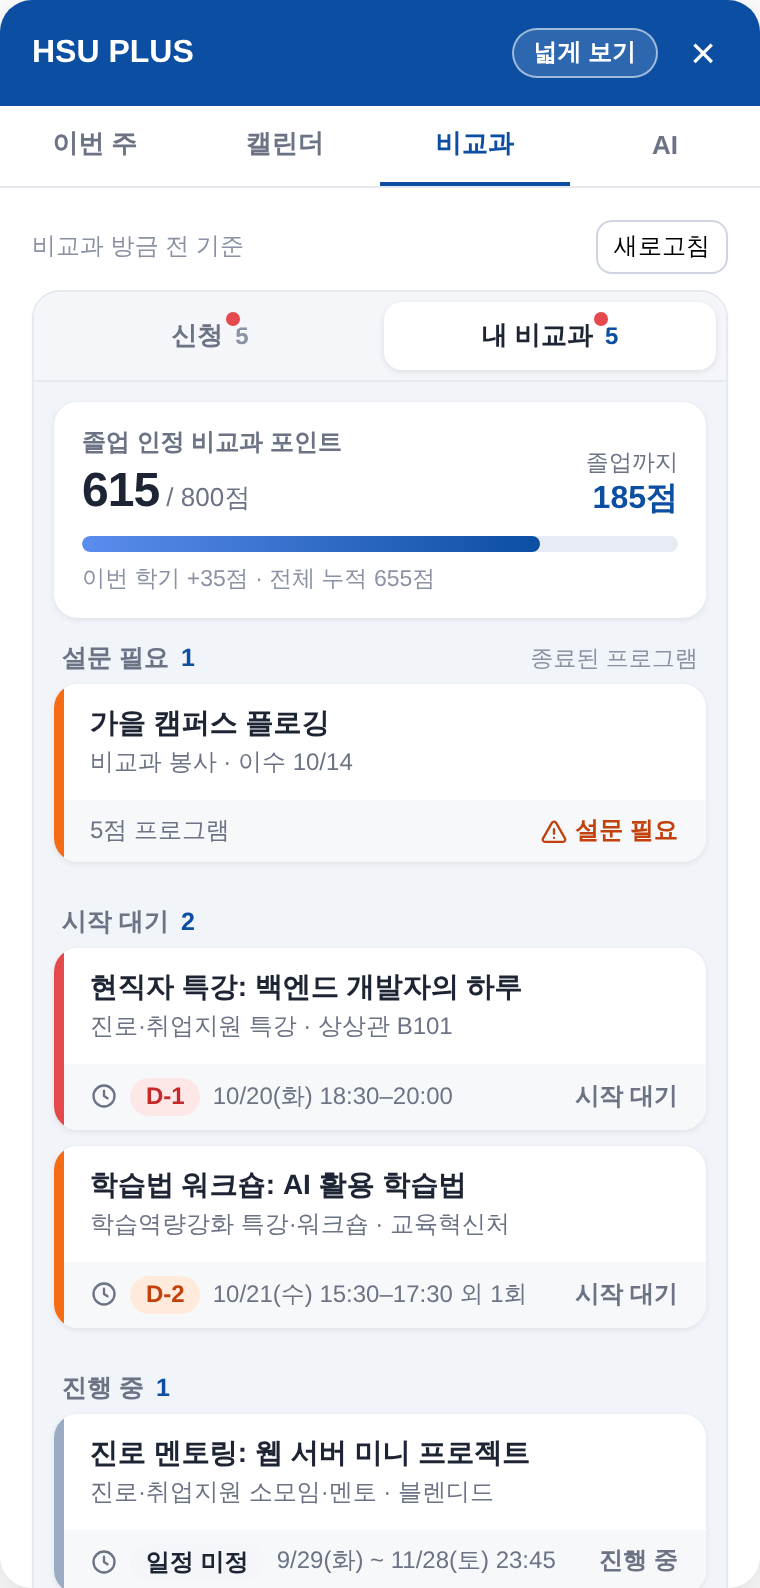
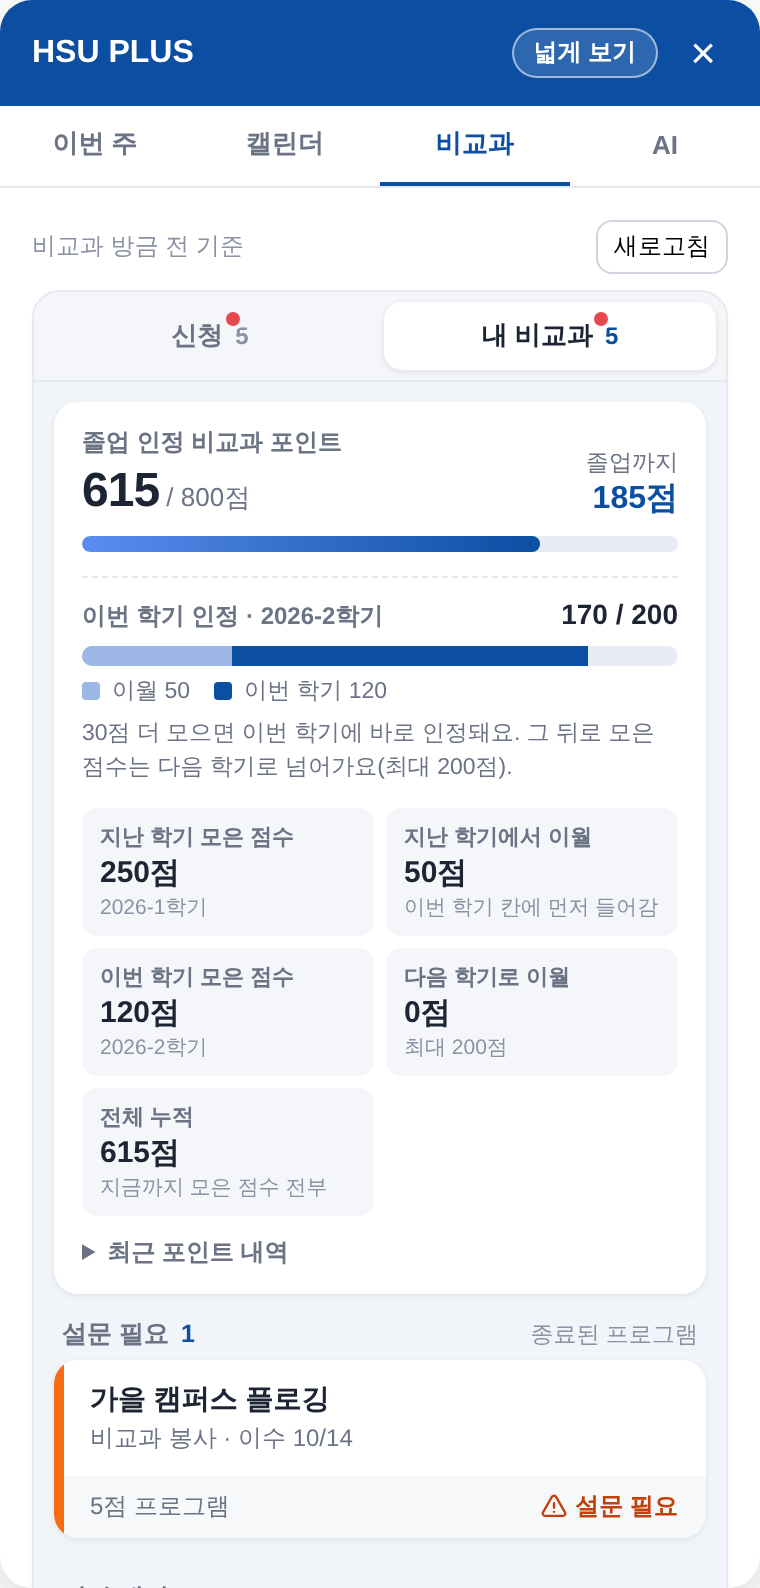
내 비교과 포인트: 학기 200점 칸·이월·소멸, 800점 이상 따로
- 포인트 내역(학교 포인트 화면 아래 목록)을 읽어 학기별로 실제 모은 점수 계산
- core/points.js: 학기 구분, 이번 학기 인정(이월 먼저, 최대 200), 다음 학기 이월(최대 200)·소멸 예상
- 카드: 졸업 인정 N/800 + 이번 학기 200점 칸(이월 | 이번 학기) + 지난/이번 학기 모은 점수·이월·누적 + 최근 내역
- 800점 이상: 게이지 없는 "내 비교과 점수" 카드 + 이번 학기 모은 점수(한도 무관)와 내역
- test/points.test.mjs 13개, README 비교과 그림 갱신

diff --git a/content/main.js b/content/main.js
@@ -1353,7 +1353,8 @@
     import(chrome.runtime.getURL("core/ai.js")),
     import(chrome.runtime.getURL("core/classify.js")),
     import(chrome.runtime.getURL("core/calendar.js")),
-  ]).then(([cache, eclass, hsportal, ai, classify, calendar]) => ({ cache, eclass, hsportal, ai, classify, calendar }));
+    import(chrome.runtime.getURL("core/points.js")),
+  ]).then(([cache, eclass, hsportal, ai, classify, calendar, points]) => ({ cache, eclass, hsportal, ai, classify, calendar, points }));
 
   // 다른 학교 사이트 페이지 글은 백그라운드가 받아 준다
   async function getText(url) {
@@ -1524,7 +1525,6 @@
   //              맨 아래 온라인(LMS에서 기간 안에 듣는 형식)은 기간만
   // 일정 종류(adapters/hsportal.js scheduleKind): exact(며칠 몇 시) / online / open(기간만, 세부 일정 따로)
   //  → exact만 날짜·시각과 D-day를 크게 보여주고 캘린더에 올린다
-  const GRAD_POINTS = 800; // 졸업 요건 비교과 포인트 (사용자 확인, 학과·학번마다 다를 수 있음)
   const PKINDS = [
     { id: "apply", label: "신청" },
     { id: "mine", label: "내 비교과" },
@@ -1595,23 +1595,82 @@
     ]);
   }
 
-  // 졸업 인정 포인트 / 800
+  // ---------- 비교과 포인트 (10/19 사용자: 학기 200점 한도, 이월 200점, 800점 넘으면 따로) ----------
+  // 계산은 core/points.js. 학교 화면 6칸 + 포인트 내역(학기별로 실제 모은 점수)
+  const fmt = (n) => Number(n || 0).toLocaleString("ko-KR");
+  function pointHistory(rows, title) {
+    if (!rows.length) return null;
+    return el("details", { class: "pt-hist" }, [
+      el("summary", { text: title }),
+      el(
+        "div",
+        { class: "pt-hist-list" },
+        rows.map((r) => el("div", { class: "pt-hrow" }, [el("span", { class: "d", text: r.date.slice(5).replace("-", "/") }), el("span", { class: "t", text: r.title }), el("b", { text: `+${r.change}` })]))
+      ),
+    ]);
+  }
   function pointCard(pt) {
-    const have = pt.graduation ?? pt.total ?? 0;
-    const left = Math.max(0, GRAD_POINTS - have);
-    const done = left === 0;
-    const bar = el("div", { class: "pt-bar" }, [el("div", { class: done ? "pt-fill done" : "pt-fill" })]);
-    bar.firstChild.style.width = `${Math.min(100, (have / GRAD_POINTS) * 100)}%`;
+    if (!PT) return el("div", { class: "pt-card" }, [el("p", { class: "placeholder", text: "포인트를 계산하는 중…" })]);
+    const S = PT.pointSummary(pt);
+    if (S.done) return eliteCard(S, pt);
+    const have = S.graduation;
+    const bar = el("div", { class: "pt-bar" }, [el("div", { class: "pt-fill" })]);
+    bar.firstChild.style.width = `${Math.min(100, (have / PT.GRAD_POINTS) * 100)}%`;
+
+    // 이번 학기 200점 칸: 이월(연한 남색) + 이번 학기 모은 점수(남색)
+    const semBar = el("div", { class: "pt-sembar", title: `한 학기 인정 한도 ${PT.SEM_CAP}점` }, [el("div", { class: "seg carry" }), el("div", { class: "seg earned" })]);
+    semBar.children[0].style.width = `${(S.fromCarry / PT.SEM_CAP) * 100}%`;
+    semBar.children[1].style.width = `${(S.fromEarned / PT.SEM_CAP) * 100}%`;
+    const note =
+      S.room > 0
+        ? `${S.room}점 더 모으면 이번 학기에 바로 인정돼요. 그 뒤로 모은 점수는 다음 학기로 넘어가요(최대 ${PT.CARRY_CAP}점).`
+        : S.lost > 0
+          ? `이번 학기 칸이 다 찼고, 다음 학기 이월도 ${PT.CARRY_CAP}점이 다 찼어요. 넘친 ${S.lost}점은 사라져요.`
+          : `이번 학기 칸은 다 찼어요. 지금부터 모으는 점수는 다음 학기로 넘어가요 (${S.carryRoom}점까지).`;
+    const stat = (label, value, sub, cls = "") => el("div", { class: `pt-stat ${cls}` }, [el("span", { class: "l", text: label }), el("b", { text: value }), sub ? el("span", { class: "s", text: sub }) : null]);
+    const stats = [
+      stat("지난 학기 모은 점수", S.prevEarned == null ? "-" : `${fmt(S.prevEarned)}점`, S.prev.label),
+      stat("지난 학기에서 이월", `${fmt(S.carryIn)}점`, "이번 학기 칸에 먼저 들어감"),
+      stat("이번 학기 모은 점수", `${fmt(S.earned)}점`, S.sem.label),
+      stat("다음 학기로 이월", `${fmt(S.carryOut)}점`, S.carryOut ? "학기가 끝나면 넘어가요 (예상)" : `최대 ${PT.CARRY_CAP}점`),
+    ];
+    if (S.lost || S.schoolExpired) stats.push(stat("소멸", `${fmt(Math.max(S.lost, S.schoolExpired || 0))}점`, "이월 한도를 넘은 점수", "warn"));
+    if (S.total != null) stats.push(stat("전체 누적", `${fmt(S.total)}점`, "지금까지 모은 점수 전부"));
     return el("div", { class: "pt-card" }, [
       el("div", { class: "pt-top" }, [
         el("div", {}, [
           el("div", { class: "pt-label", text: "졸업 인정 비교과 포인트" }),
-          el("div", { class: "pt-num" }, [el("b", { text: String(have) }), el("span", { text: ` / ${GRAD_POINTS}점` })]),
+          el("div", { class: "pt-num" }, [el("b", { text: fmt(have) }), el("span", { text: ` / ${PT.GRAD_POINTS}점` })]),
         ]),
-        el("div", { class: done ? "pt-left done" : "pt-left" }, done ? [el("b", { text: "졸업 요건 달성" })] : [el("span", { text: "졸업까지" }), el("b", { text: `${left}점` })]),
+        el("div", { class: "pt-left" }, [el("span", { text: "졸업까지" }), el("b", { text: `${fmt(S.toGraduate)}점` })]),
       ]),
       bar,
-      el("div", { class: "pt-foot", text: [pt.semester != null ? `이번 학기 +${pt.semester}점` : "", pt.total != null ? `전체 누적 ${pt.total}점` : ""].filter(Boolean).join(" · ") }),
+      el("div", { class: "pt-sem" }, [
+        el("div", { class: "pt-sem-head" }, [el("span", { text: `이번 학기 인정 · ${S.sem.label}` }), el("b", { text: `${S.recognized} / ${PT.SEM_CAP}` })]),
+        semBar,
+        el("div", { class: "pt-legend" }, [
+          el("span", { class: "k carry" }), el("span", { text: `이월 ${S.fromCarry}` }),
+          el("span", { class: "k earned" }), el("span", { text: `이번 학기 ${S.fromEarned}` }),
+          S.overflow ? el("span", { class: "over", text: `+ 넘친 ${S.overflow}` }) : null,
+        ]),
+        el("p", { class: "pt-note", text: note }),
+      ]),
+      el("div", { class: "pt-stats" }, stats),
+      pointHistory(S.recent, "최근 포인트 내역"),
+    ]);
+  }
+  // 졸업 요건(800점)을 이미 채운 사람: 게이지 없이 점수와 이번 학기 모은 점수만 (장학금 경쟁 등)
+  function eliteCard(S, pt) {
+    const thisSem = (pt.history || []).filter((r) => r.date >= S.sem.from && r.date < S.sem.to).sort((a, b) => b.date.localeCompare(a.date));
+    return el("div", { class: "pt-elite" }, [
+      el("div", { class: "pe-top" }, [el("span", { class: "pe-label", text: "내 비교과 점수" }), el("span", { class: "pe-badge", text: "✓ 졸업 요건 달성" })]),
+      el("div", { class: "pe-num" }, [el("b", { text: fmt(S.total ?? S.graduation) }), el("span", { text: "점" })]),
+      el("div", { class: "pe-sem" }, [
+        el("span", { class: "l", text: `${S.sem.label}에 모은 점수` }),
+        el("b", { text: `+${fmt(S.earned)}점` }),
+      ]),
+      el("p", { class: "pe-note", text: `학기 인정 한도(${PT.SEM_CAP}점)와 상관없이 이번 학기에 실제로 모은 점수예요.` }),
+      pointHistory(thisSem.slice(0, 20), `이번 학기 내역 ${thisSem.length}건${thisSem.length > 20 ? " (최근 20건)" : ""}`),
     ]);
   }
 
@@ -1710,9 +1769,11 @@
   const classified = new Map(); // 분류 결과 (상세가 바뀌면 비움)
   let C = null; // core/classify.js
   let CAL = null; // core/calendar.js
+  let PT = null; // core/points.js
   mods.then((m) => {
     C = m.classify;
     CAL = m.calendar;
+    PT = m.points;
     rerender();
   });
   const detailsReady = mods

diff --git a/content/panel.css b/content/panel.css
@@ -564,3 +564,55 @@ button.tt-day.today { color: var(--ot-primary); }
 .cal-foot .weekend-toggle { flex: none; margin-top: 0; }
 .frame.cal .ev-form { margin-bottom: 12px; }
 .frame.cal .cal-tools { margin-top: 12px; }
+
+/* ---------- 비교과 포인트: 학기 200점 칸 · 이월 · 숫자 (10/19) ---------- */
+.pt-sem { margin-top: 12px; padding-top: 10px; border-top: 1px dashed var(--ot-line); }
+.pt-sem-head { display: flex; justify-content: space-between; align-items: baseline; font-size: 12px; color: var(--ot-sub); font-weight: 600; }
+.pt-sem-head b { font-size: 14px; color: var(--ot-text); font-variant-numeric: tabular-nums; }
+.pt-sembar { display: flex; margin-top: 6px; height: 10px; border-radius: 999px; background: #e7ecf4; overflow: hidden; }
+.pt-sembar .seg { height: 100%; }
+.pt-sembar .carry { background: #9db8e6; }
+.pt-sembar .earned { background: var(--ot-primary); }
+.pt-legend { display: flex; flex-wrap: wrap; align-items: center; gap: 4px 6px; margin-top: 5px; font-size: 11.5px; color: var(--ot-sub); font-variant-numeric: tabular-nums; }
+.pt-legend .k { width: 9px; height: 9px; border-radius: 2px; }
+.pt-legend .k.carry { background: #9db8e6; }
+.pt-legend .k.earned { background: var(--ot-primary); margin-left: 6px; }
+.pt-legend .over { margin-left: auto; color: var(--ot-primary); font-weight: 700; }
+.pt-note { margin: 6px 0 0; font-size: 11.5px; color: var(--ot-sub); line-height: 1.5; }
+.pt-stats { display: grid; grid-template-columns: repeat(2, minmax(0, 1fr)); gap: 6px; margin-top: 10px; }
+.panel.wide .pt-stats { grid-template-columns: repeat(3, minmax(0, 1fr)); }
+.pt-stat { display: flex; flex-direction: column; gap: 1px; padding: 7px 9px; border-radius: 8px; background: var(--ot-soft); min-width: 0; }
+.pt-stat .l { font-size: 11px; color: var(--ot-sub); font-weight: 600; }
+.pt-stat b { font-size: 15px; font-variant-numeric: tabular-nums; }
+.pt-stat .s { font-size: 10.5px; color: var(--ot-muted); white-space: nowrap; overflow: hidden; text-overflow: ellipsis; }
+.pt-stat.warn { background: #fdecec; }
+.pt-stat.warn b { color: #b42318; }
+.pt-hist { margin-top: 10px; font-size: 12px; }
+.pt-hist summary { cursor: pointer; color: var(--ot-sub); font-weight: 600; }
+.pt-hist-list { display: flex; flex-direction: column; margin-top: 6px; }
+.pt-hrow { display: flex; gap: 8px; align-items: baseline; padding: 4px 0; border-top: 1px solid #f0f2f5; font-variant-numeric: tabular-nums; }
+.pt-hrow .d { flex: none; width: 38px; color: var(--ot-muted); }
+.pt-hrow .t { flex: 1; min-width: 0; overflow: hidden; text-overflow: ellipsis; white-space: nowrap; }
+.pt-hrow b { flex: none; color: var(--ot-primary); }
+
+/* 졸업 요건 달성 (800점 이상): 게이지 없이 점수를 크게 */
+.pt-elite {
+  position: relative; overflow: hidden; border-radius: 14px; padding: 14px 16px 12px; color: #fff;
+  background: radial-gradient(120% 140% at 100% 0%, #2a6fd0 0%, rgba(42, 111, 208, 0) 55%), linear-gradient(135deg, #0b3f86 0%, #082c5e 100%);
+  box-shadow: 0 6px 18px rgba(8, 44, 94, 0.28);
+}
+.pt-elite::after { content: ""; position: absolute; top: -40%; right: -20%; width: 60%; height: 180%; background: linear-gradient(115deg, rgba(255, 255, 255, 0) 30%, rgba(255, 255, 255, 0.12) 50%, rgba(255, 255, 255, 0) 70%); transform: rotate(8deg); pointer-events: none; }
+.pe-top { display: flex; align-items: center; justify-content: space-between; gap: 8px; }
+.pe-label { font-size: 12px; font-weight: 700; letter-spacing: 0.3px; color: rgba(255, 255, 255, 0.82); }
+.pe-badge { font-size: 11px; font-weight: 800; padding: 2px 9px; border-radius: 999px; color: #fff; background: linear-gradient(90deg, #2fe07a, #0fbf55); box-shadow: 0 1px 4px rgba(15, 191, 85, 0.4); }
+.pe-num { margin-top: 4px; display: flex; align-items: baseline; gap: 4px; font-variant-numeric: tabular-nums; }
+.pe-num b { font-size: 40px; font-weight: 900; letter-spacing: -1.5px; line-height: 1.05; background: linear-gradient(180deg, #ffffff 0%, #cfe0ff 100%); -webkit-background-clip: text; background-clip: text; color: transparent; }
+.pe-num span { font-size: 16px; font-weight: 700; color: rgba(255, 255, 255, 0.85); }
+.pe-sem { display: flex; justify-content: space-between; align-items: baseline; margin-top: 10px; padding: 8px 10px; border-radius: 10px; background: rgba(255, 255, 255, 0.1); }
+.pe-sem .l { font-size: 12px; color: rgba(255, 255, 255, 0.85); font-weight: 600; }
+.pe-sem b { font-size: 20px; font-weight: 800; font-variant-numeric: tabular-nums; }
+.pe-note { margin: 6px 2px 0; font-size: 11px; color: rgba(255, 255, 255, 0.7); }
+.pt-elite .pt-hist summary { color: rgba(255, 255, 255, 0.85); }
+.pt-elite .pt-hrow { border-top-color: rgba(255, 255, 255, 0.12); }
+.pt-elite .pt-hrow .d { color: rgba(255, 255, 255, 0.6); }
+.pt-elite .pt-hrow b { color: #cfe0ff; }

diff --git a/core/points.js b/core/points.js
@@ -1,0 +1,74 @@
+// 비교과 포인트 계산 (10/19 사용자 설명)
+//  - 한 학기에 졸업 인정으로 쌓이는 건 최대 200점
+//  - 넘친 점수는 다음 학기로 최대 200점까지 이월, 그보다 넘치면 소멸
+//  - 이월된 점수는 다음 학기가 시작되면 그 학기의 200점 칸을 먼저 채운다
+//    예) 3-1에 400점 → 3-1에 200, 3-2 시작하자마자 200 (3-2 칸이 이미 다 참)
+//        3-2에 100점 더 모으면 → 3-2는 이미 200이라 100점은 3-3으로 이월
+// 학기 구분은 1학기 3/1~8/31, 2학기 9/1~다음 해 2월 말로 본다.
+//  (10/19 확인: 학교 화면의 "이번학기 취득" = 9/1부터의 내역 합계. 1학기 시작일 3/1은 추정)
+
+export const SEM_CAP = 200; // 한 학기 인정 한도
+export const CARRY_CAP = 200; // 이월 한도
+export const GRAD_POINTS = 800; // 졸업 요건 (사용자 확인, 학과·학번마다 다를 수 있음)
+
+const ymd = (d) => `${d.getFullYear()}-${String(d.getMonth() + 1).padStart(2, "0")}-${String(d.getDate()).padStart(2, "0")}`;
+
+/** 날짜가 속한 학기 { year, term: 1|2, label, from, to } (from·to는 "YYYY-MM-DD", to는 다음 학기 첫날) */
+export function semesterOf(date = new Date()) {
+  const d = new Date(date);
+  const m = d.getMonth() + 1;
+  const y = m <= 2 ? d.getFullYear() - 1 : d.getFullYear();
+  const term = m >= 3 && m <= 8 ? 1 : 2;
+  const from = term === 1 ? `${y}-03-01` : `${y}-09-01`;
+  const to = term === 1 ? `${y}-09-01` : `${y + 1}-03-01`;
+  return { year: y, term, label: `${y}-${term}학기`, from, to };
+}
+/** 바로 전 학기 */
+export function prevSemester(sem) {
+  return sem.term === 2 ? semesterOf(`${sem.year}-05-01T12:00:00`) : semesterOf(`${sem.year - 1}-10-01T12:00:00`);
+}
+const sumIn = (history, sem) => (history || []).filter((r) => r.date >= sem.from && r.date < sem.to).reduce((a, r) => a + (r.change || 0), 0);
+
+/**
+ * 학교 포인트 화면 6칸 + 내역 → 화면에 보여줄 숫자
+ * @param {{semester?, carriedIn?, carryOut?, expired?, total?, graduation?, history?}} pt
+ */
+export function pointSummary(pt, now = new Date()) {
+  const sem = semesterOf(now);
+  const prev = prevSemester(sem);
+  const hasHistory = Array.isArray(pt.history) && pt.history.length > 0;
+  // 이번 학기에 실제로 모은 점수 (한도와 상관없이). 학교 칸과 내역 합계 중 큰 값 (학교 칸이 한도로 잘려 있을 수도 있어서)
+  const earned = Math.max(pt.semester ?? 0, hasHistory ? sumIn(pt.history, sem) : 0);
+  const prevEarned = hasHistory ? sumIn(pt.history, prev) : null;
+  const carryIn = pt.carriedIn ?? 0;
+  // 이월이 이번 학기 칸을 먼저 채우고, 이번 학기에 모은 점수가 나머지를 채운다
+  const recognized = Math.min(SEM_CAP, carryIn + earned);
+  const fromCarry = Math.min(SEM_CAP, carryIn);
+  const fromEarned = recognized - fromCarry;
+  const overflow = Math.max(0, carryIn + earned - SEM_CAP);
+  const carryOut = Math.min(CARRY_CAP, overflow);
+  const lost = Math.max(0, overflow - CARRY_CAP);
+  const graduation = pt.graduation ?? pt.total ?? 0;
+  return {
+    sem,
+    prev,
+    earned,
+    prevEarned,
+    carryIn,
+    recognized,
+    fromCarry,
+    fromEarned,
+    room: SEM_CAP - recognized, // 이번 학기에 더 모으면 바로 인정되는 점수
+    carryRoom: Math.max(0, CARRY_CAP - carryOut), // 그다음 이월될 수 있는 점수
+    overflow,
+    carryOut,
+    lost,
+    total: pt.total ?? null,
+    graduation,
+    toGraduate: Math.max(0, GRAD_POINTS - graduation),
+    done: graduation >= GRAD_POINTS,
+    schoolCarryOut: pt.carryOut ?? null, // 학교 화면 값 (학기 끝에 정해질 수 있음)
+    schoolExpired: pt.expired ?? null,
+    recent: hasHistory ? [...pt.history].sort((a, b) => b.date.localeCompare(a.date)).slice(0, 5) : [],
+  };
+}

diff --git a/adapters/hsportal.js b/adapters/hsportal.js
@@ -269,6 +269,36 @@ export function parsePoints(html) {
   return out;
 }
 
+/**
+ * 포인트 화면 아래 "비교과 포인트 내역" (번호 | 내역 | 변동 | 누적 | 날짜), 한 쪽 20줄. 2쪽부터 /ko/mypage/point/{쪽} (10/19 확인)
+ * → [{ title, change, date: "YYYY-MM-DD" }]. 학기별 실제로 모은 점수(인정 한도 200 넘은 것 포함)를 계산하는 데 쓴다.
+ */
+export function parsePointHistory(html) {
+  const doc = new DOMParser().parseFromString(html, "text/html");
+  return [...doc.querySelectorAll("li.tbody")]
+    .filter((li) => li.querySelector(".change") && li.querySelector(".date"))
+    .map((li) => ({
+      // "[프로그램명] 이수", "핵심역량진단 [..] 참여", "관리자적립 (…)" 등 → 앞의 "[" 와 끝의 "] 이수/참여"만 걷어 낸다
+      title: text(li.querySelector(".title")).replace(/^\[/, "").replace(/\]?\s*(이수|참여)?\s*$/, "").slice(0, 80),
+      change: Number(text(li.querySelector(".change")).replace(/[^\d-]/g, "")) || 0,
+      date: (/\d{4}-\d{2}-\d{2}/.exec(text(li.querySelector(".date"))) || [null])[0],
+    }))
+    .filter((r) => r.date);
+}
+const POINT_PAGE = 20;
+const POINT_MAX_PAGES = 10; // 학교 서버 부담: 최대 200줄
+async function fetchPoints(getText) {
+  const first = await getText(`${BASE}/ko/mypage/point`);
+  const points = parsePoints(first);
+  const history = parsePointHistory(first);
+  for (let p = 2, last = history.length; p <= POINT_MAX_PAGES && last >= POINT_PAGE; p++) {
+    const rows = parsePointHistory(await getText(`${BASE}/ko/mypage/point/${p}`));
+    history.push(...rows);
+    last = rows.length;
+  }
+  return { ...points, history };
+}
+
 /** 설문 화면이 이미 낸 설문인지: 체크된 답·적힌 답이 하나라도 있으면 낸 것. 입력칸이 아예 없으면 null(모름) */
 export function pollAnswered(html) {
   const doc = new DOMParser().parseFromString(html, "text/html");
@@ -284,7 +314,7 @@ export function pollAnswered(html) {
  */
 export async function fetchMyPrograms(getText, now = new Date()) {
   const list = (kind) => getText(`${BASE}/ko/mypage/programs/list/${kind}/1`).then(parseMyList);
-  const [wait, progress, done, points] = await Promise.all([list("wait"), list("progress"), list("complete"), getText(`${BASE}/ko/mypage/point`).then(parsePoints)]);
+  const [wait, progress, done, points] = await Promise.all([list("wait"), list("progress"), list("complete"), fetchPoints(getText)]);
 
   // 시작 대기·진행 중: 프로그램 화면에서 내 회차 일정을 읽는다 (동시 2개)
   const active = [...wait.map((p) => ({ ...p, phase: "wait" })), ...progress.map((p) => ({ ...p, phase: "progress" }))];

diff --git a/docs/DEVLOG.md b/docs/DEVLOG.md
@@ -157,3 +157,10 @@
   - core/calendar.js(시간표 겹침, 구글 링크, .ics) + test/calendar.test.mjs 15개 통과. 가짜 데이터 화면 시험(주간·월간·일정 넣기·.ics·백업·신청 탭·이번 주 탭) 통과, 이전 시험(숨기기·동기화·AI) 다시 통과
   - README: 화면 3장 추가(주간·월간 캘린더, 신청), 주요 기능, 공용 PC 로그아웃 안내. MILESTONES: #9·#12·#13·캡처 체크
   - (10/19 사용자) 캘린더 위쪽이 몰려 보임 → 주간 | 월간을 이번 주·비교과 탭처럼 액자 위 넓은 선택으로. 맨 위 줄은 "n분 전 기준 · + 일정 · 새로고침"만. 설명 줄은 격자 아래로(토·일 버튼과 한 줄). 액자 안은 흰 바탕
+- **내 비교과 포인트 자세히 (10/20)**
+  - 규칙(사용자 설명): 한 학기 졸업 인정 최대 200점, 넘친 점수는 다음 학기로 최대 200점 이월(그 이상은 소멸), 이월분은 다음 학기 200점 칸을 먼저 채움
+  - 포인트 화면 확인(읽기만, 숫자는 출력하지 않고 같은지 여부만 봄): 아래 "비교과 포인트 내역"(번호 | 내역 | 변동 | 누적 | 날짜, 한 쪽 20줄, 2쪽부터 /ko/mypage/point/{쪽}). "이번학기 취득" = 9/1부터 내역 합계(일치), 전체 누적 = 내역 전체 합계 = 졸업 인정(일치), 지난 학기 이월 ≠ 1학기 합계(1학기에 200 넘게 모아 이월된 경우와 맞음). 1학기 시작 3/1은 추정
+  - core/points.js: 학기 구분, 이번 학기 인정(이월 먼저 + 이번 학기 모은 점수, 최대 200), 넘친 점수 → 다음 학기 이월(최대 200)·소멸 예상. 이번 학기 모은 점수는 학교 칸과 내역 합계 중 큰 값(학교 칸이 한도로 잘려 있을 수도 있어서). test/points.test.mjs 13개
+  - 카드: 졸업 인정 N/800 + 이번 학기 200점 칸(이월 | 이번 학기, 넘친 점수), 안내 한 줄("N점 더 모으면 이번 학기에 바로 인정"), 숫자 칸(지난 학기 모은 점수, 지난 학기에서 이월, 이번 학기 모은 점수, 다음 학기로 이월, 소멸(있을 때만), 전체 누적), 최근 포인트 내역 5개
+  - 800점 이상(졸업 요건 달성): 게이지 없이 남색 카드에 "내 비교과 점수" 크게 + "이번 학기에 모은 점수 +N"(한도와 상관없이 실제로 모은 점수, 장학금 경쟁용) + 이번 학기 내역
+  - 포인트 내역은 최대 10쪽(200줄)까지 읽음. 이 내역은 AI에 보내지 않음
